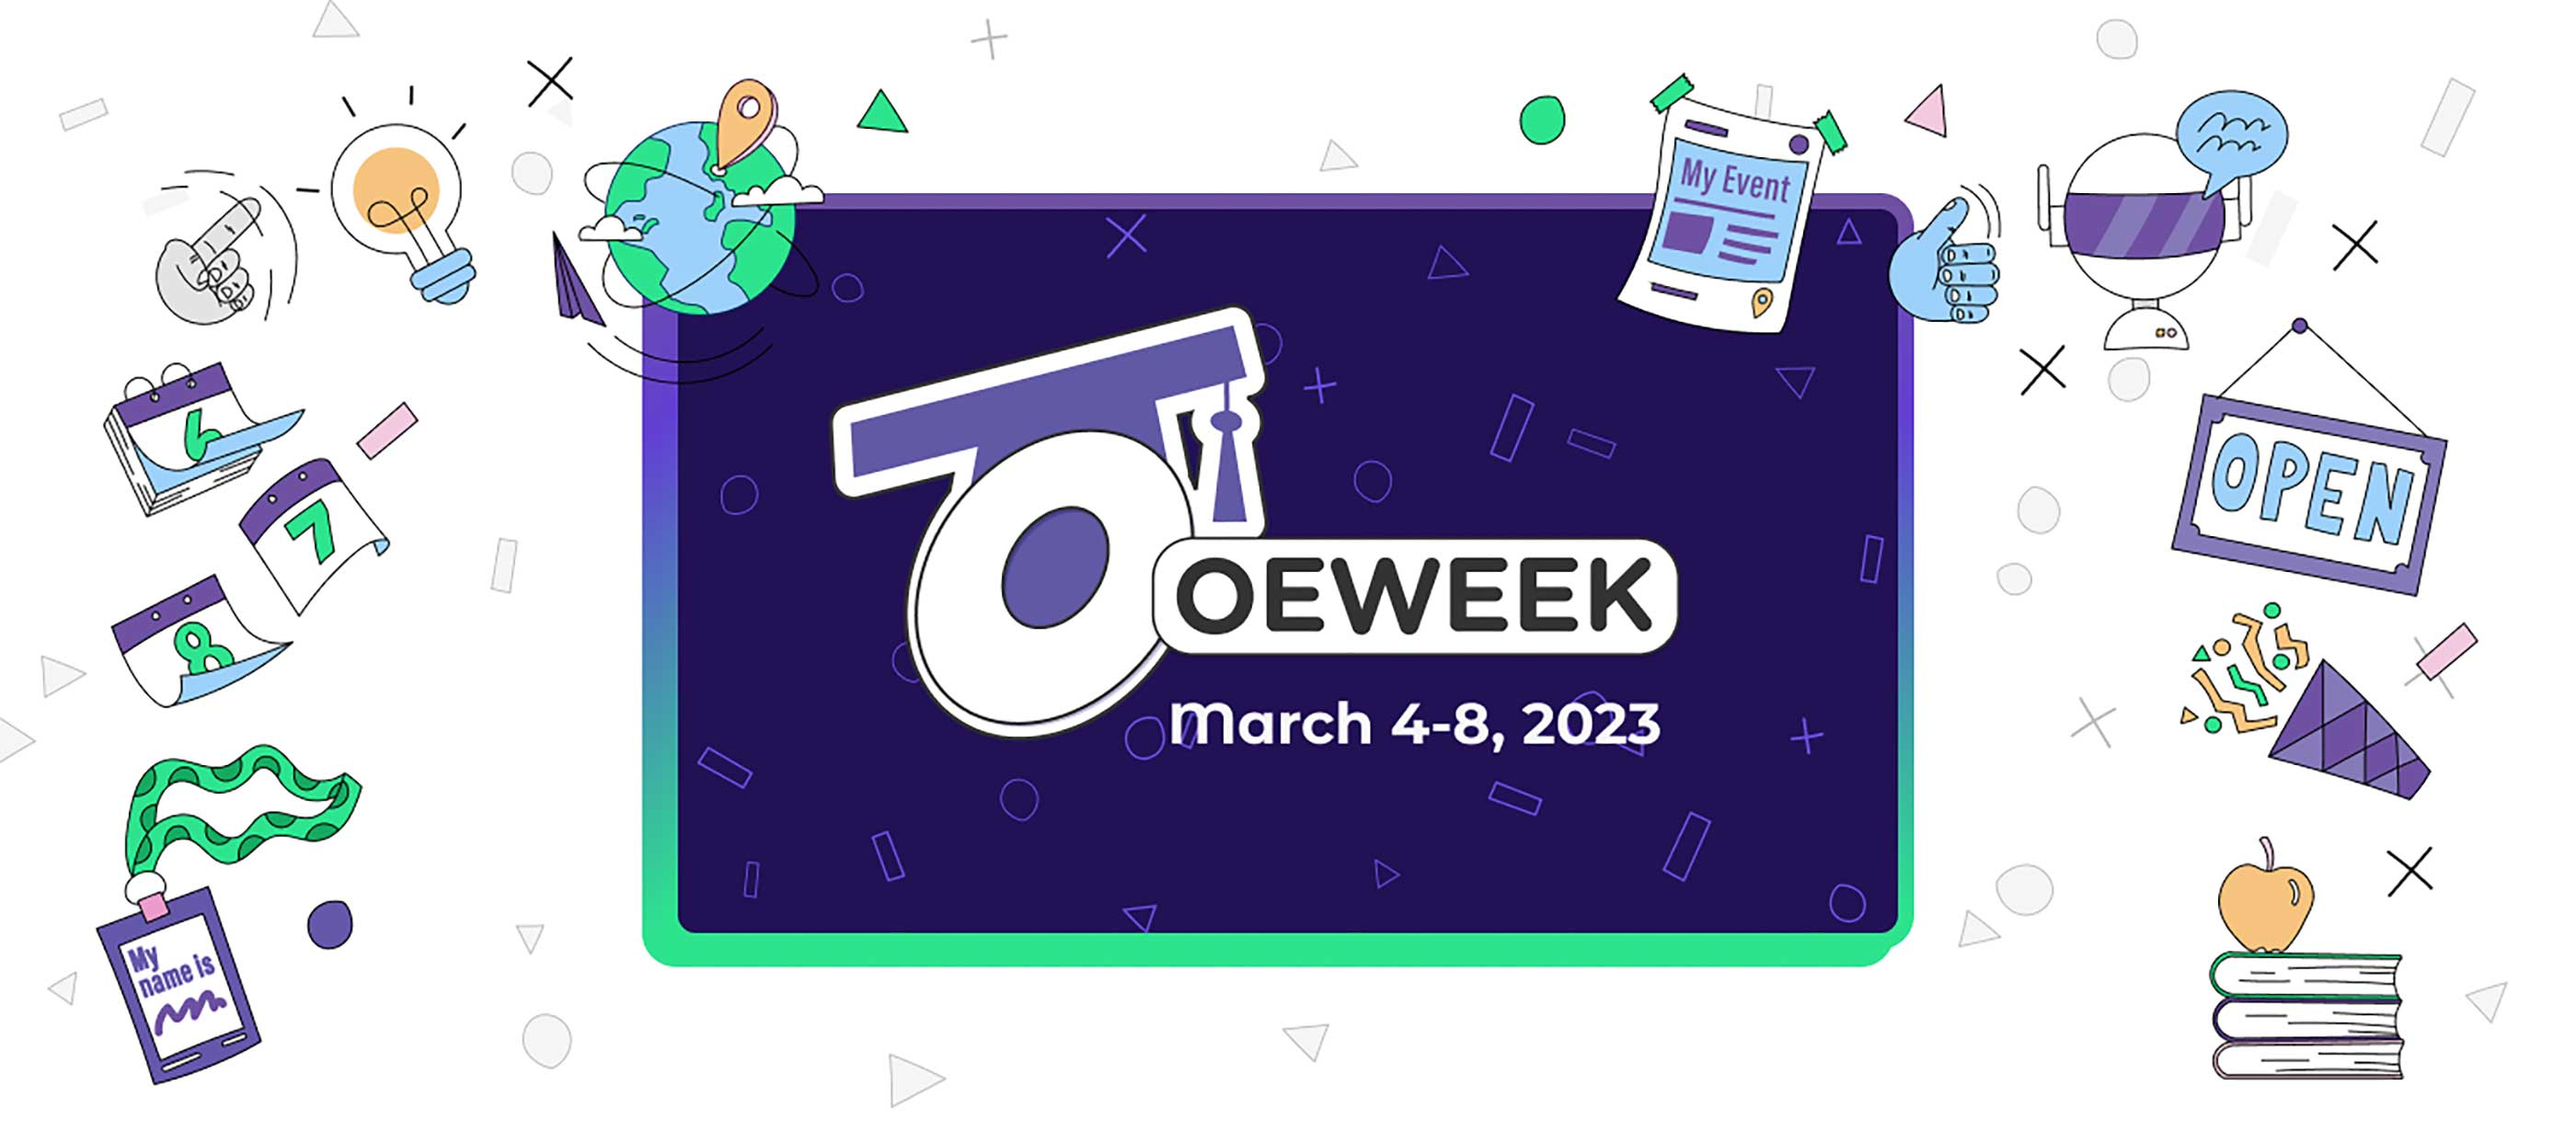
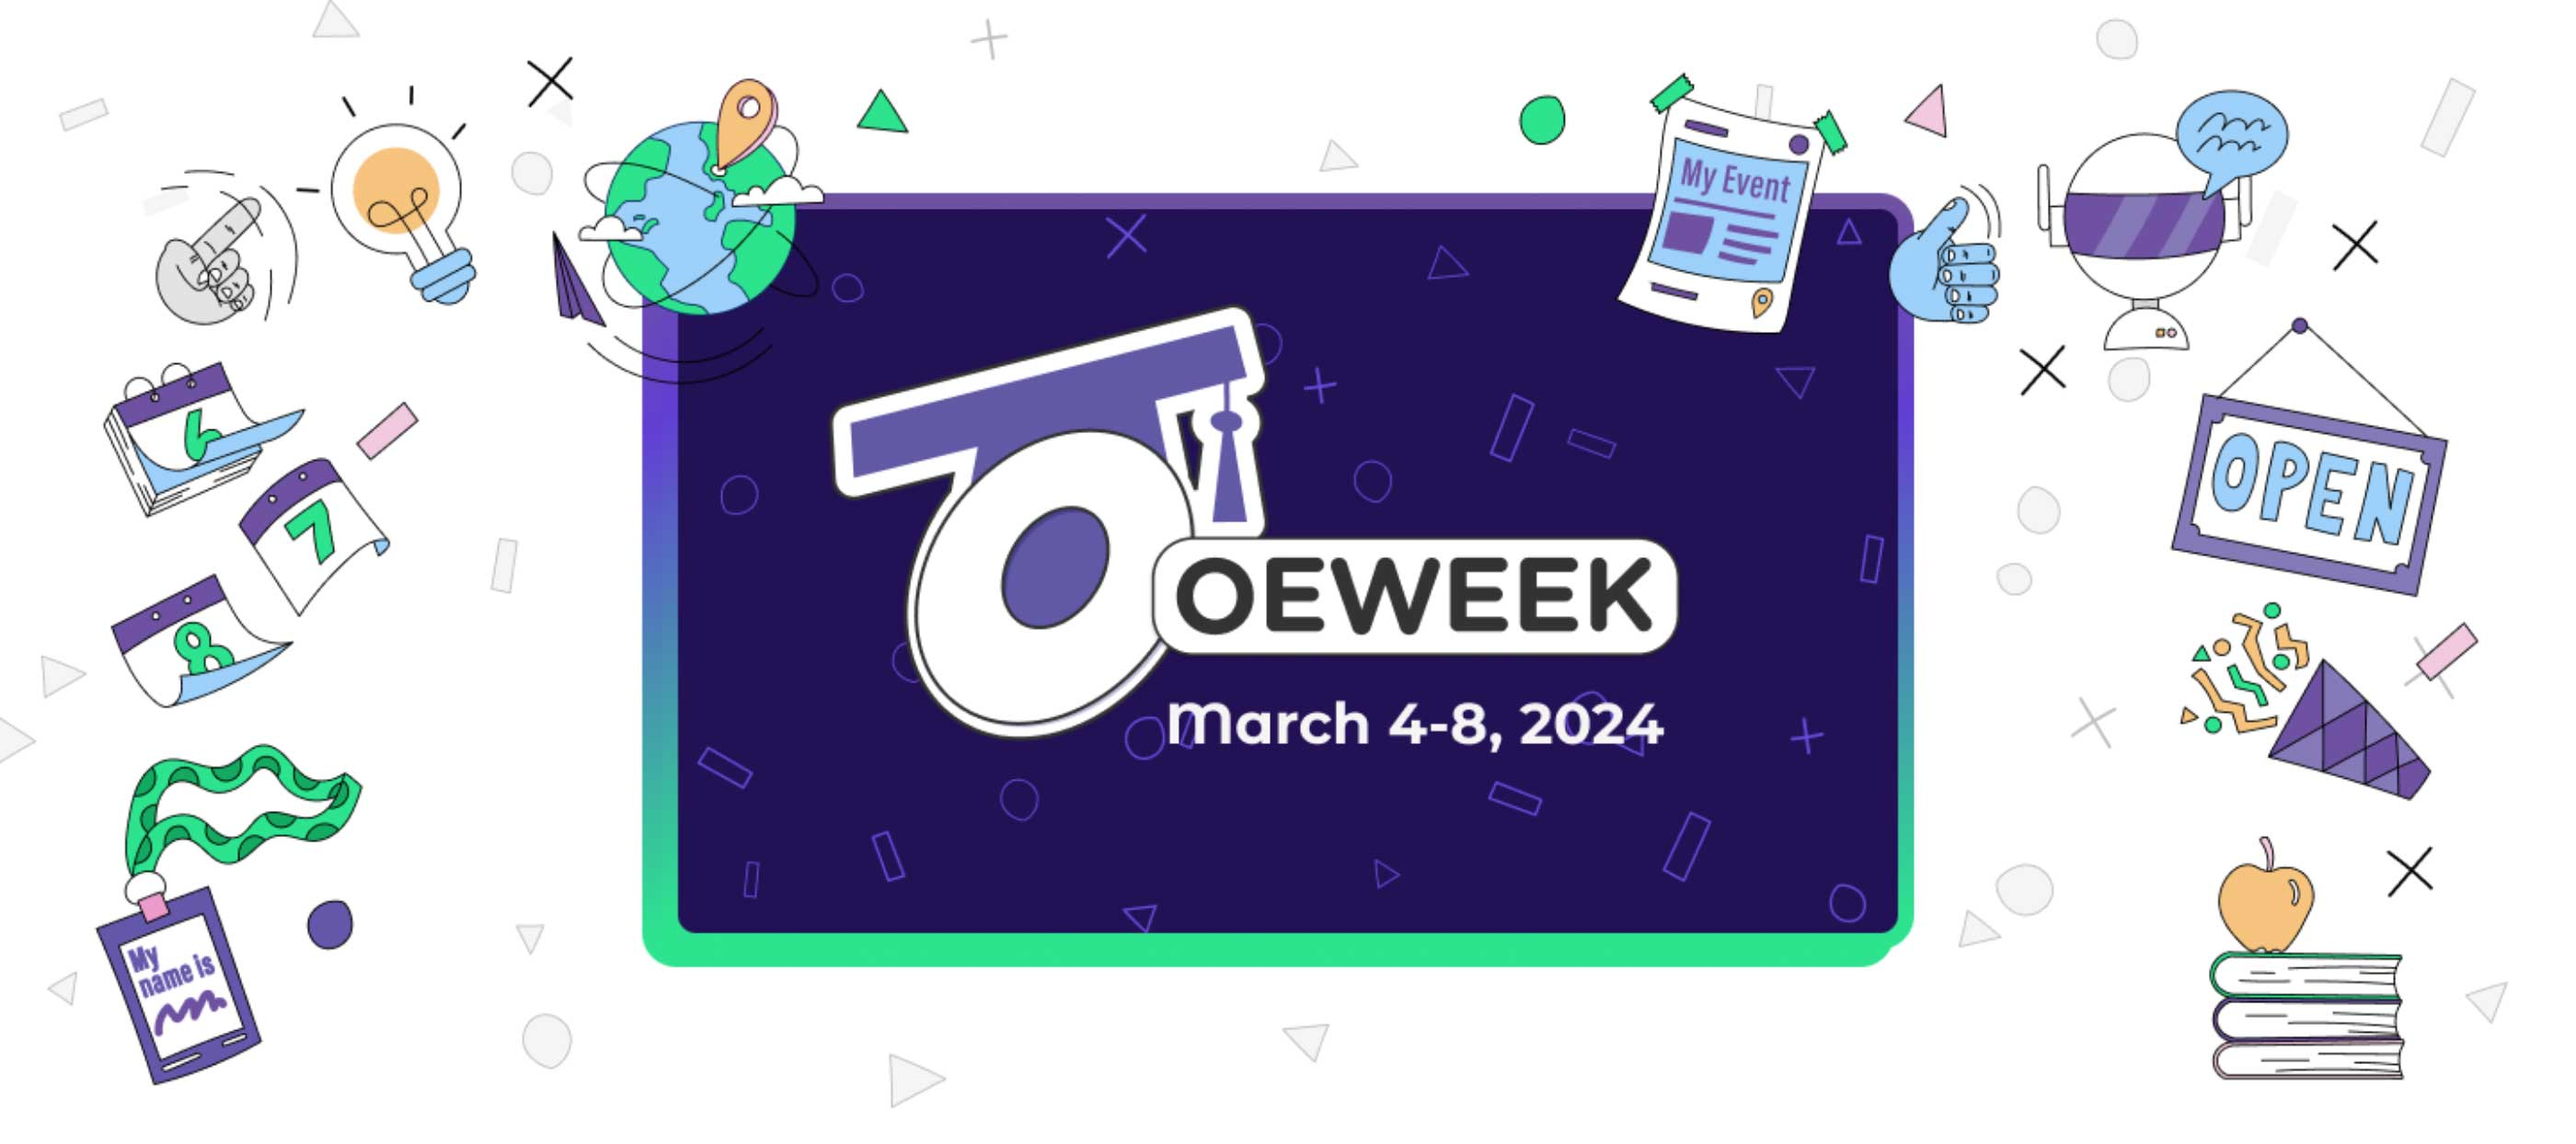
graphics and text

diff --git a/index.html b/index.html
@@ -10,7 +10,7 @@
     <!--- basic page needs
    ================================================== -->
     <meta charset="utf-8">
-    <title>Open Education Week 2024 Preview</title>
+    <title>Get Ready for Open Education Week 2024</title>
     <meta name="description" content="">
     <meta name="author" content="">
 
@@ -151,11 +151,20 @@
 		     	   <h3>History</h3>
 
 		        <p class="drop-cap">
-		         Open Education Week was launched in 2012 by Open Education Global as a collaborative, community-built open forum. Every year OE Week raises awareness and highlights innovative open education successes worldwide. OE Week provides practitioners, educators, and students with an opportunity to build a greater understanding of open educational practices and be inspired by the wonderful work being developed by the community around the world.
+		         Open Education Week was launched in 2012 by <a href="https://oeglobal.org">Open Education Global</a> as a collaborative, community-built open forum. Every year OE Week raises awareness and highlights innovative open education successes worldwide. OE Week provides practitioners, educators, and students with an opportunity to build a greater understanding of open educational practices and be inspired by the wonderful work being developed by the community around the world.
 		         </p>
 		         
-		         <p>In 2022 we celebrated 10 years of Open Education Week. In 2023, we look forward to another decade that continues to celebrate open as an exciting solution for education!</p>
+		         <p>While we prepare a new experience and web site for Open Education Week 2024, feel free to explore the <a href="https://oeweek.oeglobal.org/schedule/all/">events</a> and <a href="https://oeweek.oeglobal.org/library/resources/?language=&amp;opentags=&amp;year=2023&amp;page=1">resources</a> shared in 2023.</p>
 		         
+		         <h3>2024 marks 12 years of OE Week! </h3>
+		         
+		         <p>Over 13 years, the open education community in <strong>79 countries</strong> has hosted <strong>2,064 events</strong> and shared <strong>843 Open Education assets in <strong>38 languages</strong>. There have been <strong>85,535 engaged participants</strong> from <strong>192 countries</strong>. Track the changes over the years <a href="https://web.archive.org/web/20110000000000*/https://openeducationweek.org">in the internet archive</a>.</p>
+		         <p>
+We look forward to another dozen years that continue to celebrate open as an exciting solution for education! We hope you join us! Stay tuned to this web site starting January 15, 2024 for the opening of event and asset submission forms.
+</p>
+		         
+		         
+		        
 		         </div>
 		         
 	   <div class="col-six tab-full">
@@ -165,9 +174,24 @@
 		      <p class="drop-cap">This year, OE Week is taking place between March 4-8, although some events happen throughout March. We look forward to receiving your contributions to OE Week 2024!
 				</p>
 				
+				
+			 <h3>Getting Ready for Open Education Week</h3>
+			 <p class="drop-cap">Many organizations and individuals are already planning their activities, but there is plenty of time to start if this is the first time you will join Open Education Week.</p>
+			 <p>Your events may be in person local or online. The kinds of activities you might consider include:</p>
+			 
+<ul>
+	<li>Panel Discussions</li>
+	<li>Presentations</li>
+	<li>Workshops</li>
+	<li>Open sessions / drop-ins</li>
+	<li>Hackathon</li>
+	<li>Activity-a-thon</li>
+</ul>
+ 
+				
 			</div>	         
 		         
-		  	</div>
+</div>
 		  	  
 	
 
@@ -176,32 +200,33 @@
 
         <div class="row about-how">
           
-            <h1 class="intro-header" data-aos="fade-up">Key Dates for 2023</h1>           
+            <h1 class="intro-header" data-aos="fade-up">Steps to Get Ready for 2024</h1>           
 
             <div class="about-how-content" data-aos="fade-up">
                 <div class="about-how-steps block-1-2 block-tab-full group">
 
                     <div class="bgrid step" data-item="1">
-                        <h3>When</h3>
-                        <p>Open Education Week takes place this year March 4-8, 2024.
+                        <h3>Plan and Schedule Events</h3>
+                        <p>Put the dates on your schedule! Open Education Week takes place this year March 4-8, 2024. These are ideally the dates for planning your own activities. Plan to have a web address for information about each event, and organize and webinar links for participants to join (for online events). <p>The web site form for adding your events will open <strong>Jan 12, 2024</strong> for you to contribute all the avtivities you are hosting this year.
                         </p> 
+
                     </div>
 
                     <div class="bgrid step" data-item="2">
-                        <h3>Share Events</h3>
-                        <p>The web site form for adding your events will open <strong>Jan 12, 2024</strong> for you to contribute all the avtivities you are hosting this year.
-                        </p> 
+                        <h3>Organize Your OER Assets</h3>
+                        <p>The goal this year is to collectively contribute a large anount of new or exisiting open educational resources to the public commons.</p>
+                        <p>We have a new exciting approach for sharing Open Educational Assets (aka OERs). We seek to add as many we can to world wide OER repositories, so start thinking about perhaps new OERs you have developed, or exisiting ones to share more widely.
                     </div>               
                
                     <div class="bgrid step" data-item="3">
-                        <h3>Share Resources</h3>
-                        <p>SWe have a new concept! Rather than sending us your asstes, we encourage submission of OER to exisiting repositories.
+                        <h3>Get Your Promo Material</h3>
+                        <p>We have the graphics and other materials you are welcome to use for publicizing your own activities (link TBA).</p>
                         </p> 
                     </div>
 
                     <div class="bgrid step" data-item="4">
-                        <h3>Calnder</h3>
-                        <p>Look for the calendar of events to open February 8, 2024.
+                        <h3>Share The Excitement</h3>
+                        <p>Contribute by helping us get the word out about Open Education Week in your local networks and local media. Use the hashtag #OEWeek in social media so we can find and amplify your messages.
                         </p> 
                     </div>  
 
@@ -232,11 +257,11 @@
             <div class="col-four pricing-intro">
                 <h1 class="intro-header" data-aos="fade-up">Ways to Contribute</h1>
 
-                <p data-aos="fade-up">There are two primary ways to contribute to Open Education Week. First ask you to consider planning and scheduling your own locally hosted or online events. We invite you then to add them to our collective event calendar. The idea is to show all of the open education activities happening around the world.
+                <p data-aos="fade-up">There are two primary ways to contribute to Open Education Week. First ask you to consider planning and scheduling your own locally hosted or online events..
                 </p>
                 
-                <p>Then we ask for OERs to be added to blah blah blah blah blah.
-                </0>
+                <p>Then we ask you to help add as many OER as possible to existing repositories. You can help us chart this world wide im pact by letting us know what you shared and where.
+                </p>
             </div>
 
             <div class="col-eight pricing-table">
